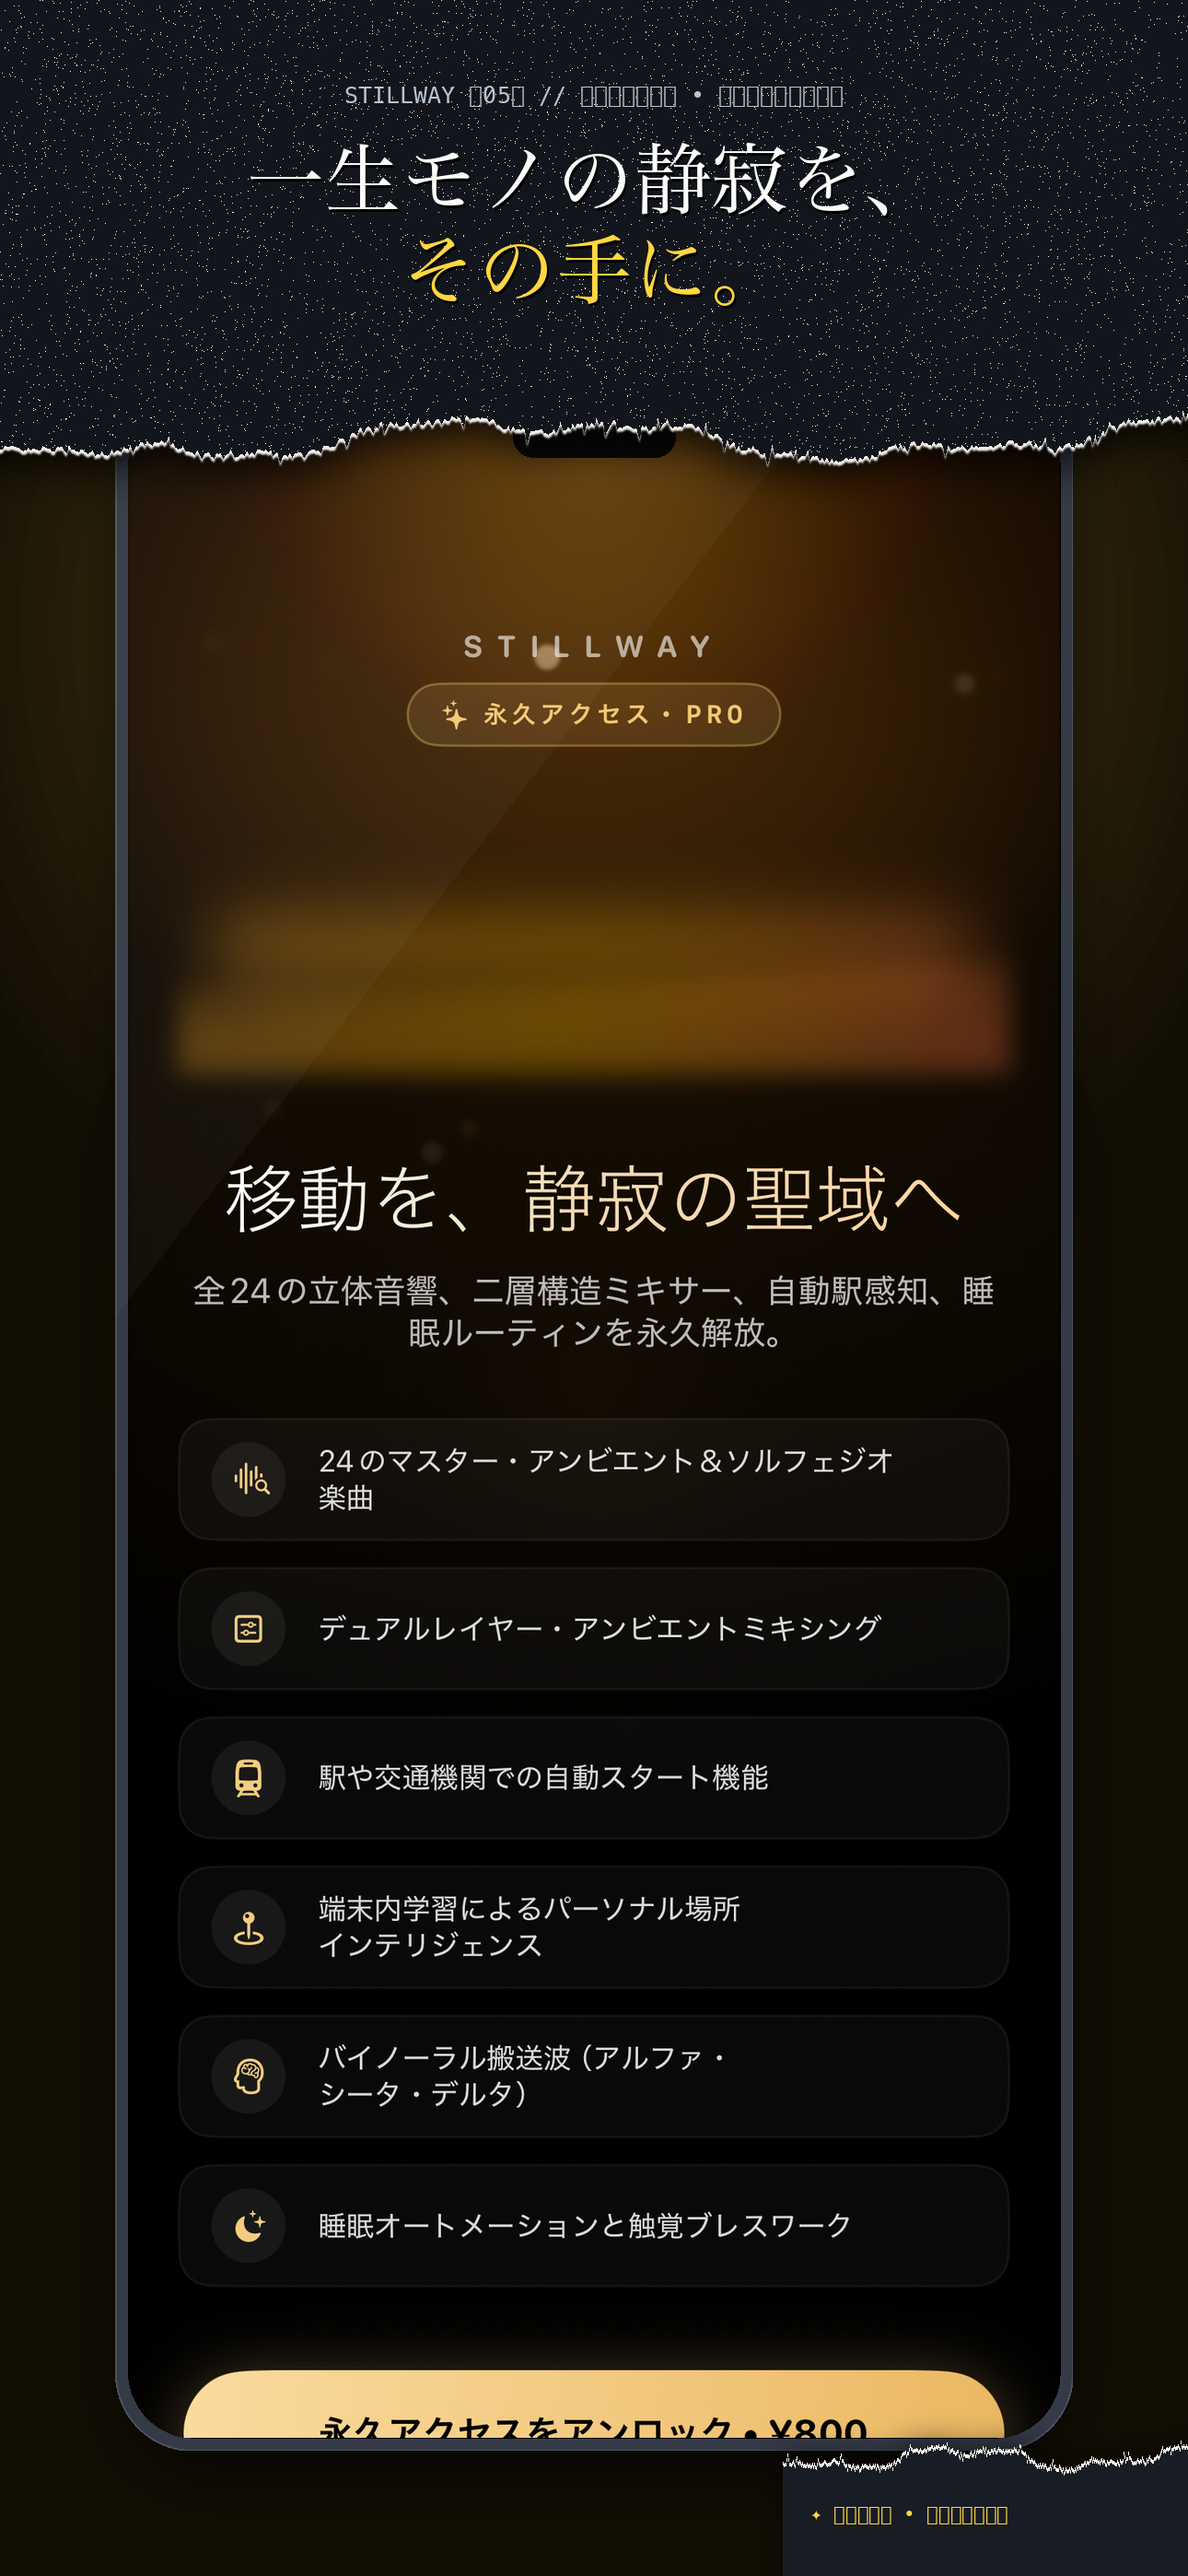
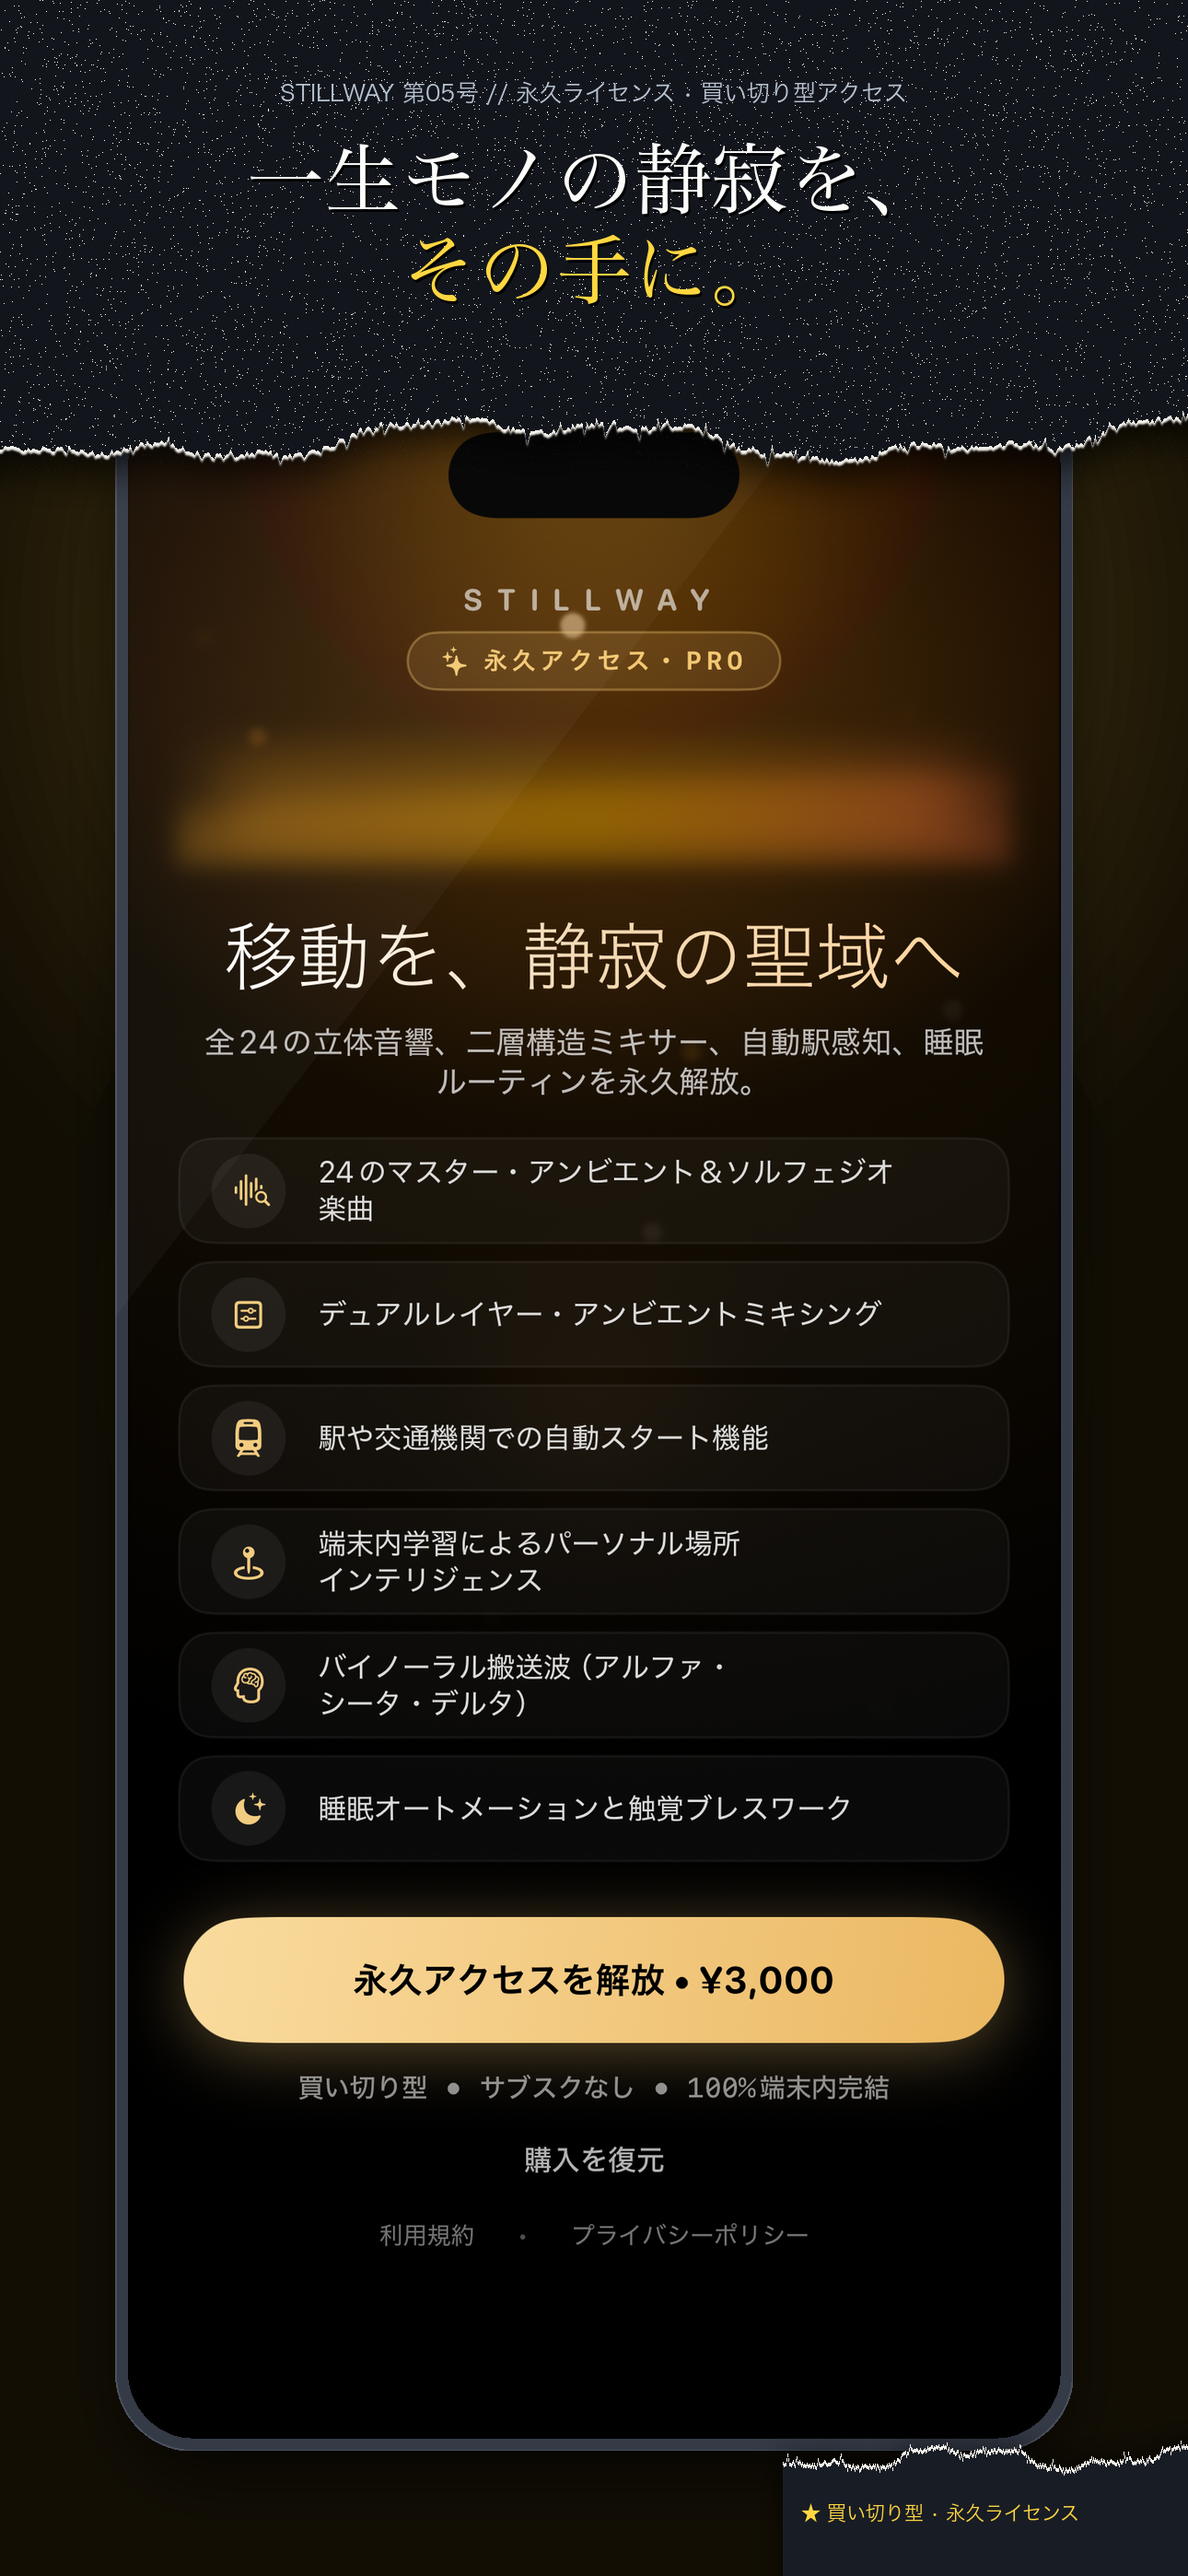
Update paywall pricing to .99, 999 TL, and 3000 Yen across all screenshots and StoreKit

diff --git a/Stillway/Views/Sheets/ProPaywallView.swift b/Stillway/Views/Sheets/ProPaywallView.swift
@@ -34,14 +34,14 @@ struct ProPaywallView: View {
             .allowsHitTesting(false)
 
             ScrollView(showsIndicators: false) {
-                VStack(spacing: 28) {
+                VStack(spacing: 16) {
                     // Header Badge
-                    VStack(spacing: 8) {
+                    VStack(spacing: 6) {
                         Text("STILLWAY")
                             .font(.system(size: 13, weight: .bold, design: .rounded))
                             .tracking(6)
                             .foregroundStyle(.white.opacity(0.6))
-                            .padding(.top, 36)
+                            .padding(.top, 16)
 
                         HStack(spacing: 6) {
                             Image(systemName: "sparkles")
@@ -53,7 +53,7 @@ struct ProPaywallView: View {
                         .accessibilityIdentifier("PaywallBadge")
                         .foregroundStyle(Color(red: 0.95, green: 0.78, blue: 0.45))
                         .padding(.horizontal, 14)
-                        .padding(.vertical, 6)
+                        .padding(.vertical, 5)
                         .background(
                             Capsule()
                                 .fill(Color(red: 0.95, green: 0.78, blue: 0.45).opacity(0.12))
@@ -66,12 +66,12 @@ struct ProPaywallView: View {
 
                     // Dynamic Waveform Visual
                     WaveformView()
-                        .frame(height: 110)
+                        .frame(height: 58)
                         .padding(.horizontal, 20)
-                        .padding(.vertical, 4)
+                        .padding(.vertical, 2)
 
                     // Hero Hook Title
-                    VStack(spacing: 10) {
+                    VStack(spacing: 8) {
                         GradientText(
                             text: lm.string("paywall_hook_title"),
                             colors: [
@@ -80,19 +80,19 @@ struct ProPaywallView: View {
                                 theme.gradient.glowColor
                             ]
                         )
-                        .font(.system(size: 28, weight: .semibold, design: .serif))
+                        .font(.system(size: 26, weight: .semibold, design: .serif))
                         .multilineTextAlignment(.center)
                         .padding(.horizontal, 20)
 
                         Text(lm.string("paywall_hook_subtitle"))
-                            .font(.system(size: 15, weight: .regular))
+                            .font(.system(size: 14, weight: .regular))
                             .foregroundStyle(.white.opacity(0.72))
                             .multilineTextAlignment(.center)
                             .padding(.horizontal, 28)
                     }
 
                     // Feature Cards (Editorial Layout)
-                    VStack(spacing: 12) {
+                    VStack(spacing: 8) {
                         featureRow(icon: "waveform.badge.magnifyingglass", titleKey: "settings_pro_feature_1")
                         featureRow(icon: "slider.horizontal.2.square", titleKey: "settings_pro_feature_2")
                         featureRow(icon: "tram.fill", titleKey: "settings_pro_feature_3")
@@ -103,7 +103,7 @@ struct ProPaywallView: View {
                     .padding(.horizontal, 22)
 
                     // Call to Action Box
-                    VStack(spacing: 14) {
+                    VStack(spacing: 12) {
                         Button {
                             handlePurchase()
                         } label: {
@@ -187,10 +187,20 @@ struct ProPaywallView: View {
     }
 
     private var ctaButtonText: String {
-        if let product = store.proProduct {
+        let localizedPrice: String
+        switch lm.currentLanguage {
+        case .tr:
+            localizedPrice = "999 TL"
+        case .ja:
+            localizedPrice = "¥3,000"
+        default:
+            localizedPrice = "$19.99"
+        }
+
+        if let product = store.proProduct, !ProcessInfo.processInfo.arguments.contains("-forcePaywall") {
             return String(format: lm.string("paywall_cta_price"), product.displayPrice)
         } else {
-            return String(format: lm.string("paywall_cta_price"), "$4.99")
+            return String(format: lm.string("paywall_cta_price"), localizedPrice)
         }
     }
 
@@ -214,7 +224,7 @@ struct ProPaywallView: View {
             Spacer()
         }
         .padding(.horizontal, 14)
-        .padding(.vertical, 10)
+        .padding(.vertical, 6.5)
         .background(
             RoundedRectangle(cornerRadius: 14, style: .continuous)
                 .fill(Color.white.opacity(0.035))

diff --git a/Stillway/screenshots_studio/generate_torn_magazine_screenshots.py b/Stillway/screenshots_studio/generate_torn_magazine_screenshots.py
@@ -20,6 +20,7 @@ NEWYORK_FONT = "/System/Library/Fonts/NewYork.ttf"
 SERIF_EN = DIDOT_FONT if os.path.exists(DIDOT_FONT) else (BODONI_FONT if os.path.exists(BODONI_FONT) else NEWYORK_FONT)
 
 SERIF_JA = "/System/Library/Fonts/ヒラギノ明朝 ProN.ttc"
+SANS_JA = "/System/Library/Fonts/ヒラギノ角ゴシック W3.ttc"
 MONO_FONT = "/System/Library/Fonts/Monaco.dfont" if os.path.exists("/System/Library/Fonts/Monaco.dfont") else "/System/Library/Fonts/Menlo.ttc"
 
 def get_font(path, size, index=0):
@@ -170,7 +171,8 @@ def render_torn_magazine_card(lang, config):
 
     # A. Masthead / Issue Tag
     masthead_text = config[f"meta_{lang}"]
-    masthead_font = get_font(MONO_FONT, 25)
+    masthead_font_path = SANS_JA if lang == "ja" else MONO_FONT
+    masthead_font = get_font(masthead_font_path, 25)
     bbox_m = masthead_font.getbbox(masthead_text)
     mw = bbox_m[2] - bbox_m[0]
     draw.text(((CANVAS_WIDTH - mw) // 2, 88), masthead_text, font=masthead_font, fill=(185, 195, 210, 210))
@@ -223,8 +225,11 @@ def render_torn_magazine_card(lang, config):
     # Text on ripped scrap
     draw = ImageDraw.Draw(canvas)
     stamp_text = config[f"badge_{lang}"]
-    stamp_font = get_font(MONO_FONT, 21)
-    draw.text((CANVAS_WIDTH - 410, CANVAS_HEIGHT - 80), stamp_text, font=stamp_font, fill=(accent_rgb[0], accent_rgb[1], accent_rgb[2], 240))
+    stamp_font_path = SANS_JA if lang == "ja" else MONO_FONT
+    stamp_font = get_font(stamp_font_path, 21)
+    bbox_s = stamp_font.getbbox(stamp_text)
+    sw = bbox_s[2] - bbox_s[0]
+    draw.text((CANVAS_WIDTH - max(sw + 40, 420), CANVAS_HEIGHT - 80), stamp_text, font=stamp_font, fill=(accent_rgb[0], accent_rgb[1], accent_rgb[2], 240))
 
     # Save final torn magazine card
     out_dir = os.path.join(OUT_DIR, lang)
@@ -251,7 +256,7 @@ CONFIGS = [
         "title_ja": "移動を、\n静寂の聖域へ。",
         "title_tr": "HAREKETİN İÇİNDE\nDERİN SESSİZLİK",
         "badge_en": "✦ 48kHz STEREO NEURO-ACOUSTIC",
-        "badge_ja": "✦ 48kHz 立体音響 • 端末内生成",
+        "badge_ja": "★ 48kHz 立体音響 • 端末内生成",
         "badge_tr": "✦ 48kHz ÇİFT KANALLI STEREO SES"
     },
     {
@@ -271,7 +276,7 @@ CONFIGS = [
         "title_ja": "音を、自在に\n編み上げる。",
         "title_tr": "KENDİ ARMONİNİ\nÖZGÜRCE YARAT",
         "badge_en": "✦ DUAL-LAYER MIXER • 432Hz HARMONY",
-        "badge_ja": "✦ 24マスター音源 • 432Hz調律",
+        "badge_ja": "★ 24マスター音源 • 432Hz調律",
         "badge_tr": "✦ ÇİFT KATMANLI MİKSER • 432Hz SOLFEJ"
     },
     {
@@ -291,7 +296,7 @@ CONFIGS = [
         "title_ja": "時を忘れ、\n深く整う。",
         "title_tr": "YAŞAYAN ZAMANLA\nYENİDEN DOĞ",
         "badge_en": "✦ LIVING WATER & SAND CLOCKS",
-        "badge_ja": "✦ 命宿る水時計 • 瞑想タイマー",
+        "badge_ja": "★ 命宿る水時計 • 瞑想タイマー",
         "badge_tr": "✦ CANLI SU VE KUM SAATLERİ"
     },
     {
@@ -311,7 +316,7 @@ CONFIGS = [
         "title_ja": "至福の眠りへ、\n漂う。",
         "title_tr": "KUTUP AURORASIYLA\nDERİN UYKU",
         "badge_en": "✦ 100% ON-DEVICE • PURE OFFLINE",
-        "badge_ja": "✦ 完全オフライン • 究極のプライバシー",
+        "badge_ja": "★ 完全オフライン • 究極のプライバシー",
         "badge_tr": "✦ SIFIR REKLAM • %100 ÇEVRİMDIŞI"
     },
     {
@@ -331,7 +336,7 @@ CONFIGS = [
         "title_ja": "一生モノの静寂を、\nその手に。",
         "title_tr": "ÖMÜR BOYU\nKESİNTİSİZ HUZUR",
         "badge_en": "✦ LIFETIME ACCESS • ONE-TIME PURCHASE",
-        "badge_ja": "✦ 買い切り型 • 永久ライセンス",
+        "badge_ja": "★ 買い切り型 • 永久ライセンス",
         "badge_tr": "✦ ÖMÜR BOYU ERİŞİM • TEK SEFERLİK SATIN ALIM"
     }
 ]
